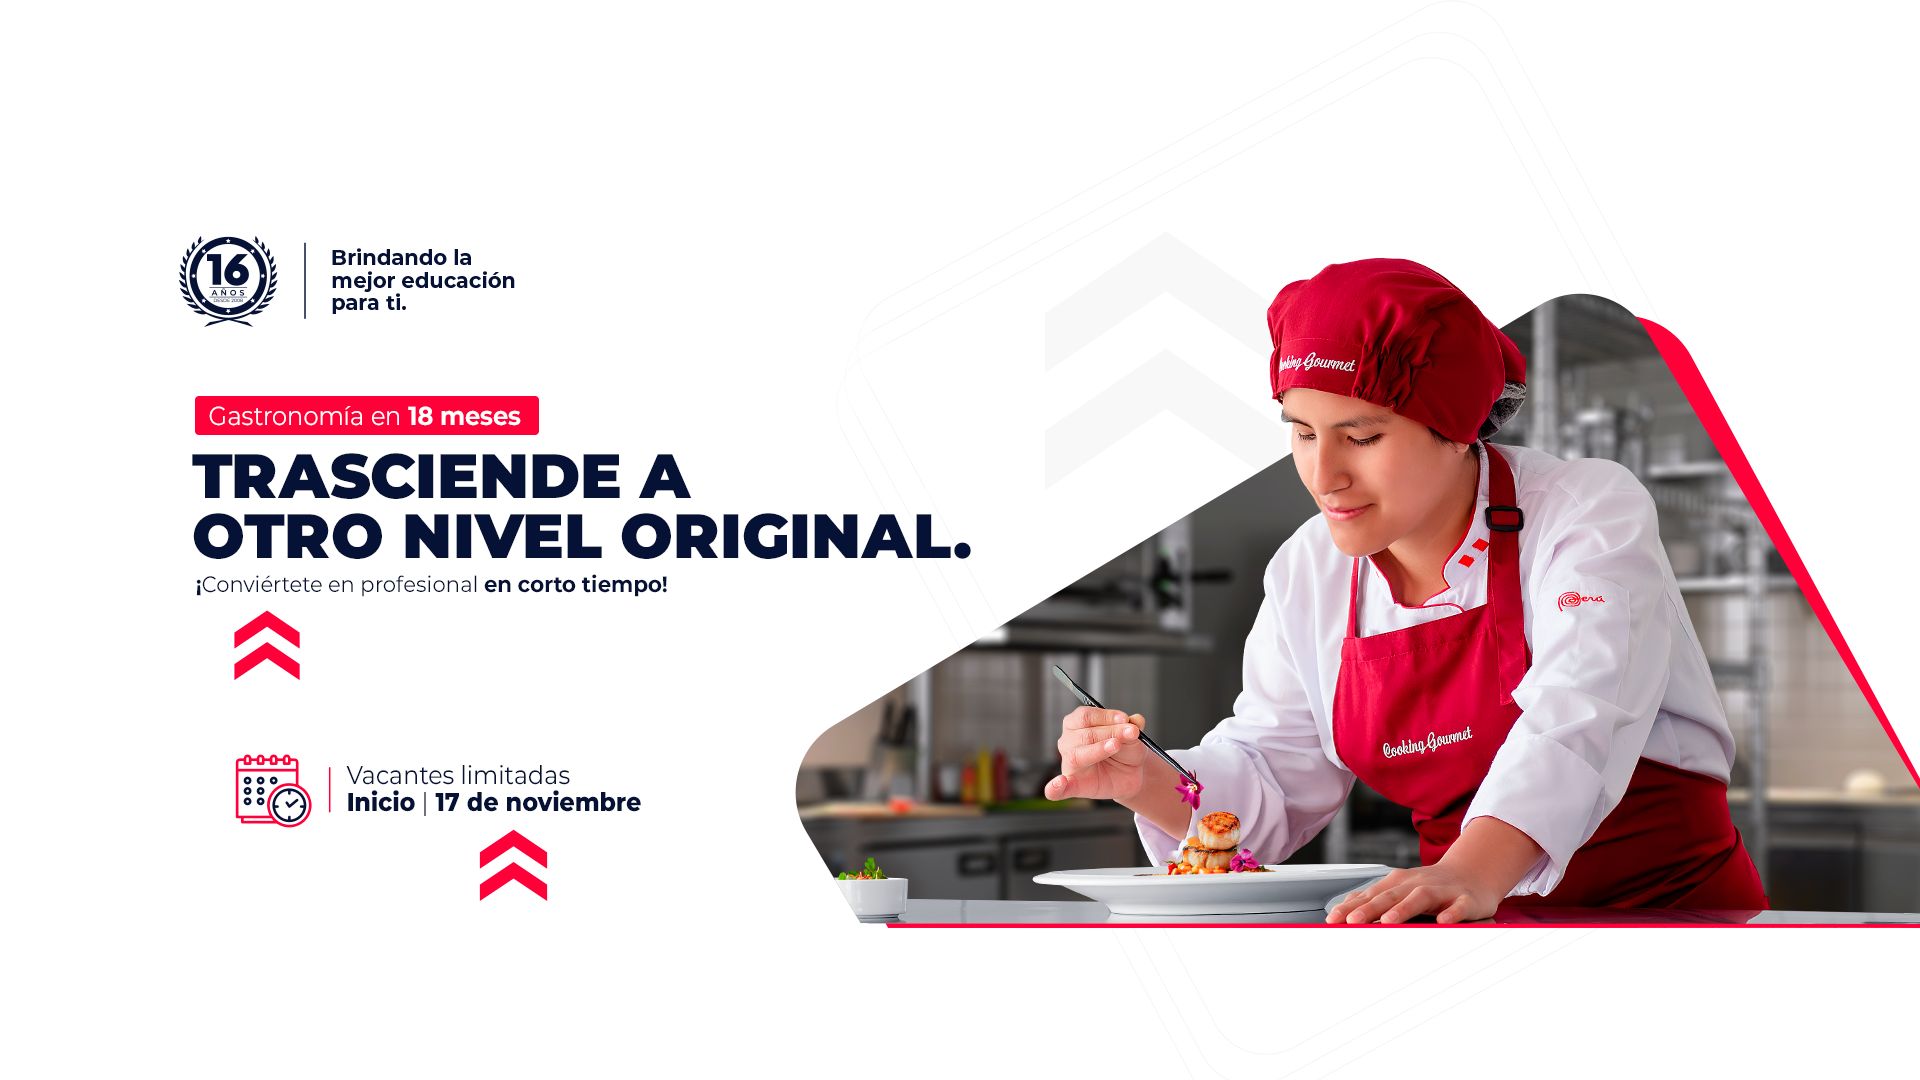
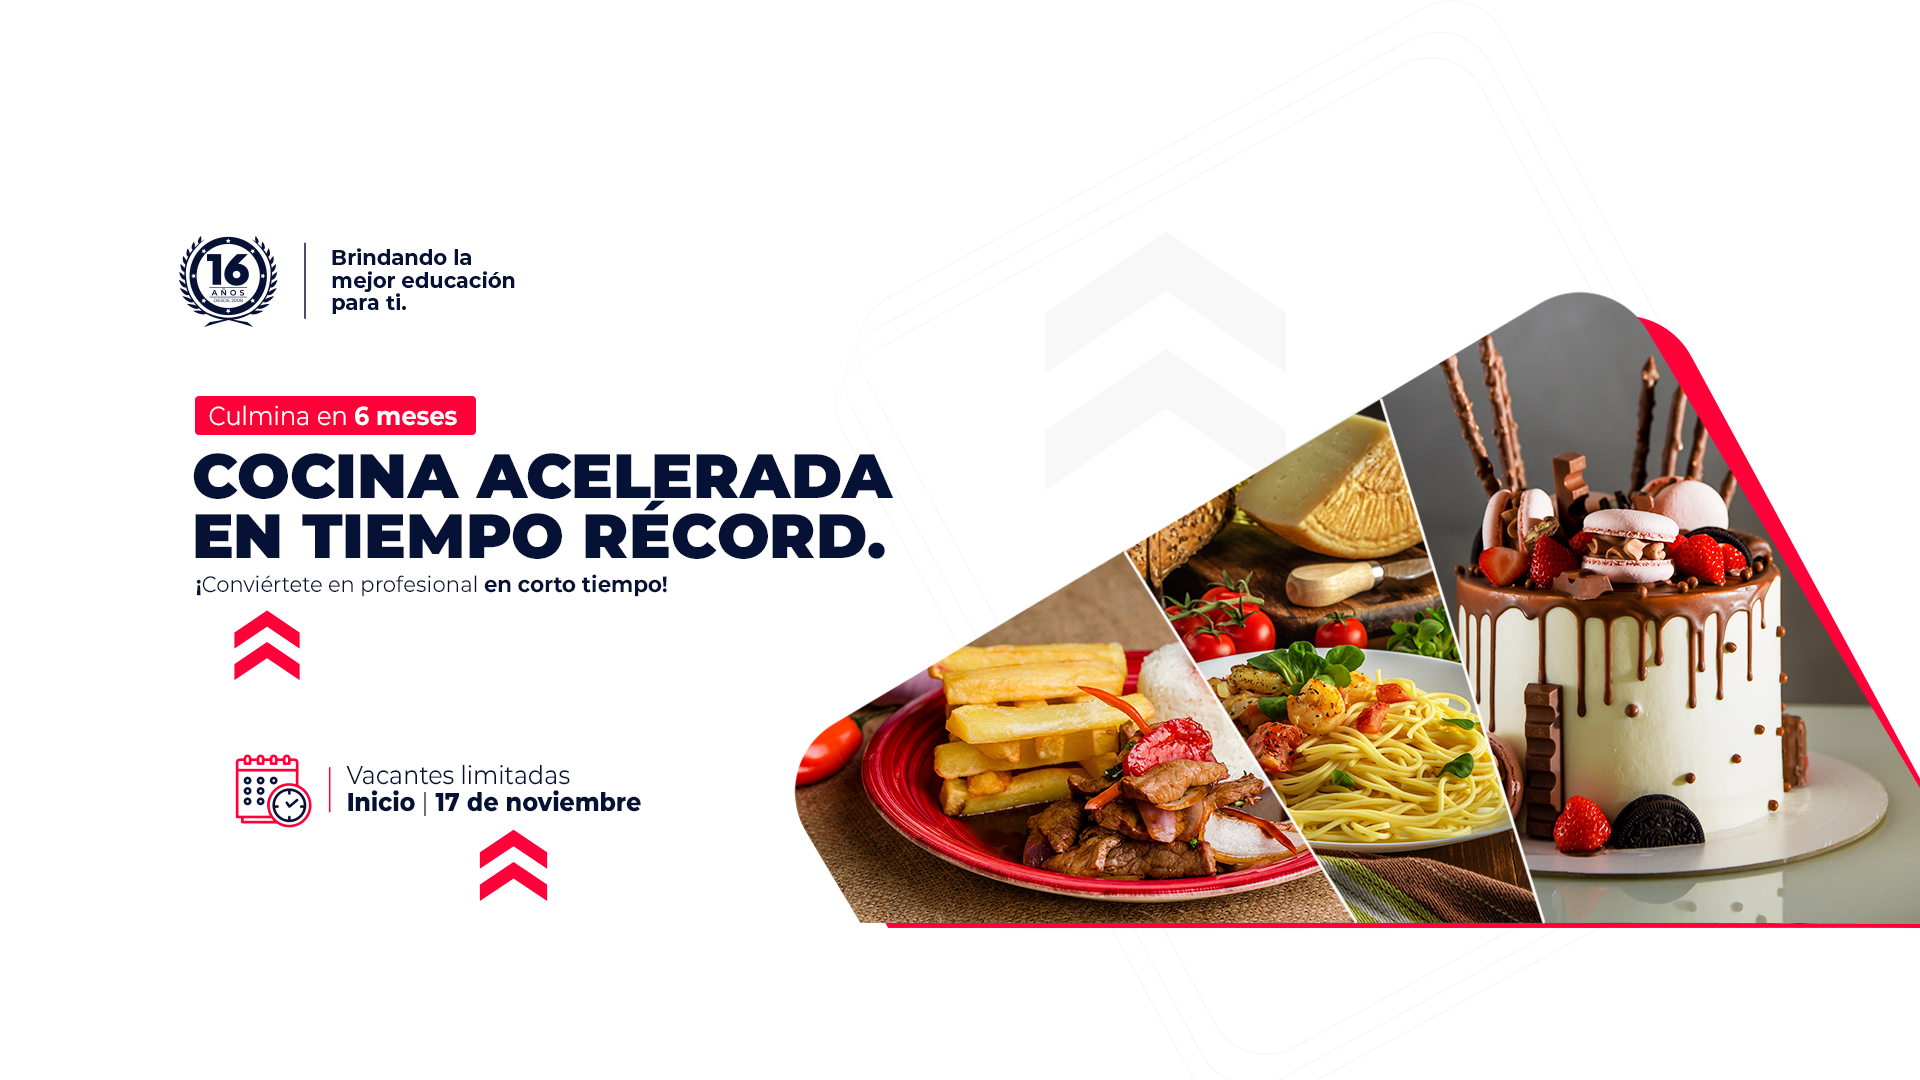
cambios

Changed region(s): [[0.4062, 0.2444, 1.0, 0.8556], [0.0938, 0.3667, 0.5, 0.5194]]

diff --git a/css/styles.css b/css/styles.css
@@ -52,42 +52,58 @@ nav {
 
 
 .featured-image {
-    position: relative;
-    width: 100%;
-    height: 100vh; /* Fondo adaptable */
-    overflow: hidden;
+  position: relative;
+  width: 100%;
+  height: 100vh;
+  overflow: hidden;
 }
 
-.featured-image img {
-    width: 100%;
-    height: 100%;
-    object-fit: cover;
-    transition: transform 8s ease-in-out;
-    animation: zoomEffect 12s infinite;
+.featured-image .slider {
+  width: 100%;
+  height: 100%;
+  position: relative;
+}
+
+.featured-image .slider img {
+  position: absolute;
+  top: 0;
+  left: 0;
+  width: 100%;
+  height: 100%;
+  object-fit: cover;
+  opacity: 0;
+  animation: slideShow 24s infinite; /* 4 imágenes × 6s */
+}
+
+/* Asignamos los retrasos a cada imagen */
+.featured-image .slider img:nth-child(1) { animation-delay: 0s; }
+.featured-image .slider img:nth-child(2) { animation-delay: 6s; }
+.featured-image .slider img:nth-child(3) { animation-delay: 12s; }
+.featured-image .slider img:nth-child(4) { animation-delay: 18s; }
+
+@keyframes slideShow {
+  0% { opacity: 0; transform: scale(1); }
+  5% { opacity: 1; transform: scale(1.05); }  /* aparece con zoom */
+  25% { opacity: 1; transform: scale(1.1); }  /* mantiene zoom */
+  30% { opacity: 0; transform: scale(1.1); }  /* se desvanece */
+  100% { opacity: 0; transform: scale(1); }
 }
 
 .featured-image .overlay {
-    position: absolute;
-    top: 0;
-    left: 0;
-    width: 100%;
-    height: 100%;
-    display: flex;
-    flex-direction: column;
-    justify-content: center;
-    align-items: center;
-    color: white;
-    text-align: center;
-    z-index: 1;
-    background: rgba(0, 0, 0, 0.3); /* opcional, mejora visibilidad del texto */
+  position: absolute;
+  top: 0;
+  left: 0;
+  width: 100%;
+  height: 100%;
+  display: flex;
+  flex-direction: column;
+  justify-content: center;
+  align-items: center;
+  color: white;
+  text-align: center;
+  z-index: 1;
+  background: rgba(0, 0, 0, 0.3); /* mejora legibilidad del texto */
 }
-
-@keyframes zoomEffect {
-    0% { transform: scale(1); }
-    50% { transform: scale(1.1); }
-    100% { transform: scale(1); }
-}
-
 
 
 .section1 {

diff --git a/index.html b/index.html
@@ -87,11 +87,22 @@
 </div>
 
 <div class="section1">
+
+  
+
   <div class="featured-image">
-    <img src="images/portada.png" alt="Descripción de la imagen">
- 
-    
+  <div class="slider">
+    <img src="images/portada.png" alt="Imagen 1">
+    <img src="images/portada2.png" alt="Imagen 2">
+    <img src="images/portada3.png" alt="Imagen 3">
+    <img src="images/portada4.png" alt="Imagen 4">
+
+  </div>
+
 </div>
+
+
+
 
 <div class="floating-form">
   <form action="https://formsubmit.co/ventas@cookingourmet.edu.pe" method="POST">
